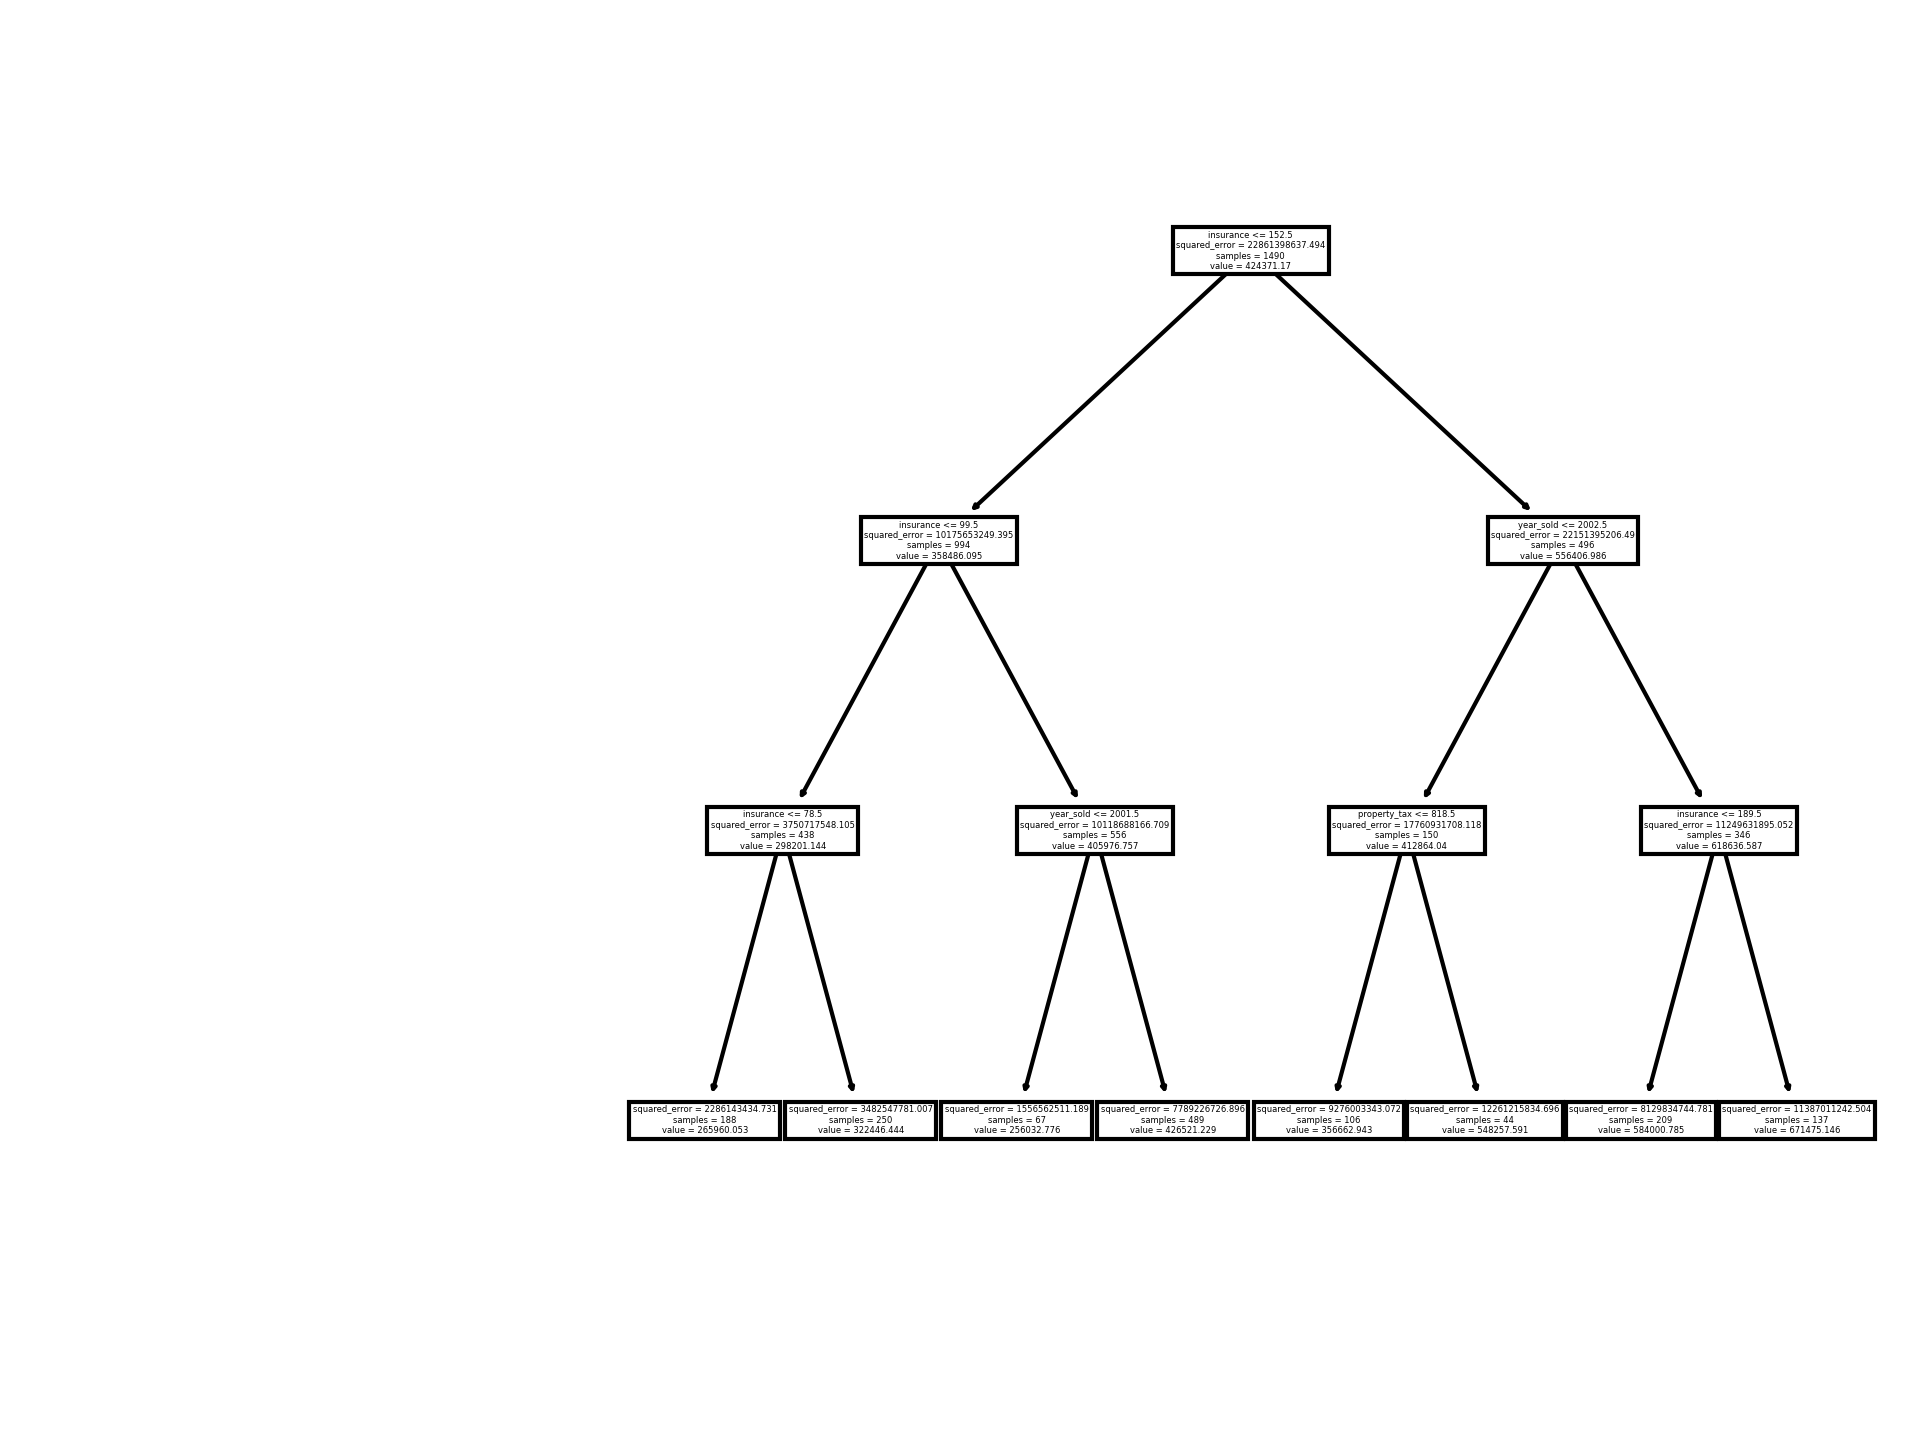
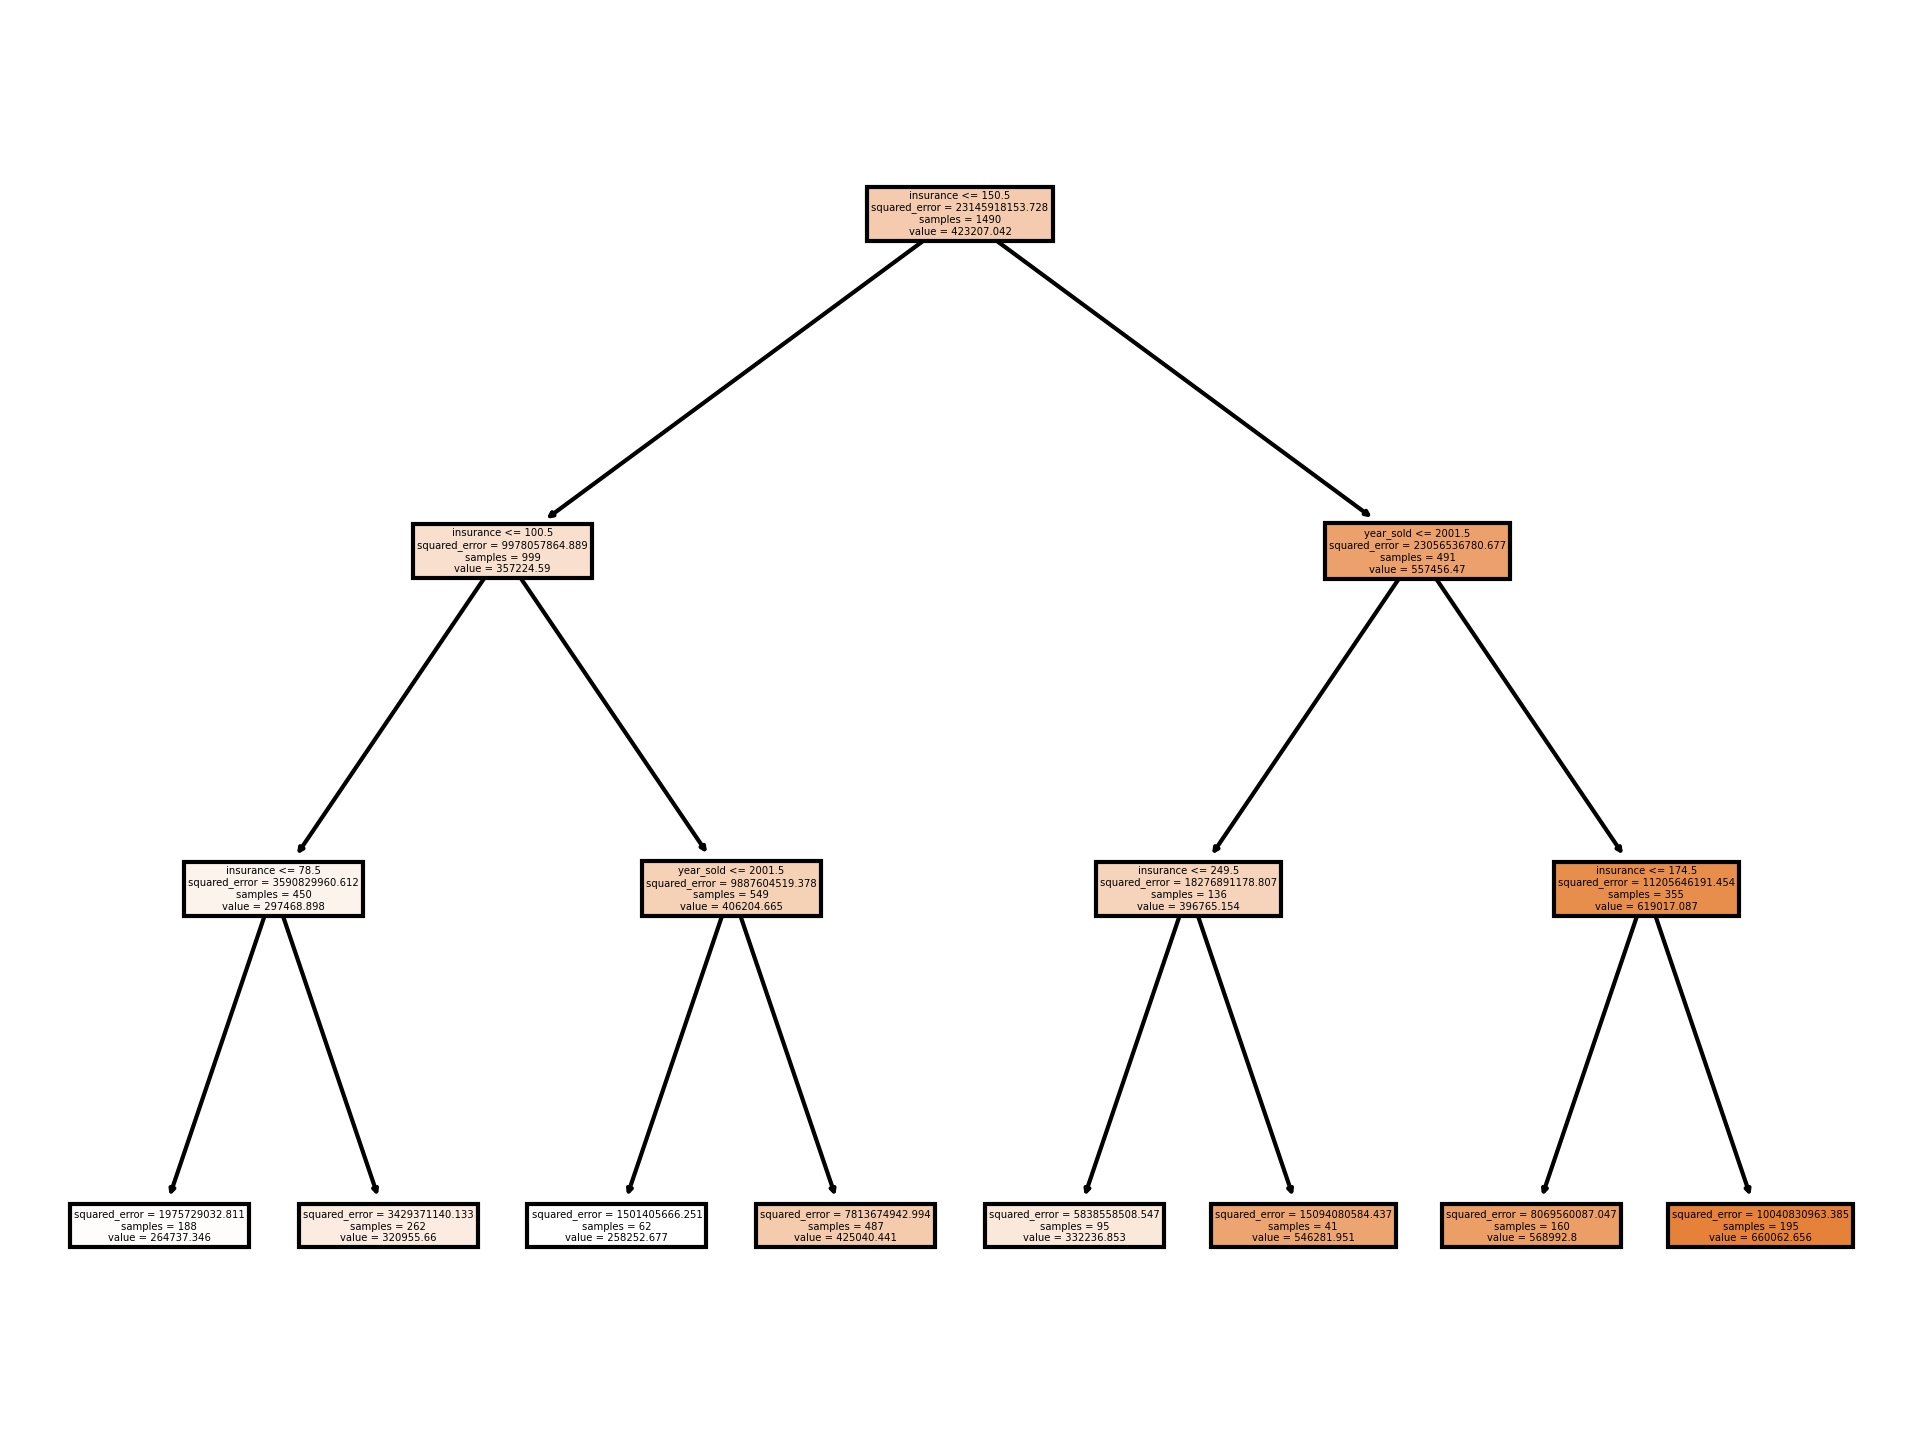
exception handling

diff --git a/src/visualization/visualize.py b/src/visualization/visualize.py
@@ -2,7 +2,9 @@
 import matplotlib.pyplot as plt
 import seaborn as sns
 from sklearn import tree
+from ..logging.logging import logging_decorator
 
+@logging_decorator
 def plot_correlation_heatmap(data):
     """
     Plot a correlation heatmap for the given data.
@@ -13,8 +15,13 @@ def plot_correlation_heatmap(data):
     plt.figure(figsize=(10, 8))
     sns.heatmap(data.corr()*100, annot=True, fmt='.0f', cmap='RdBu_r')
     plt.title('Correlation Heatmap', fontsize=16)
+    # Save the plot to a file
+    plt.savefig('heatmap.png', dpi=300)
+    # Show the plot
     plt.show()
 
+
+@logging_decorator
 def plot_feature_importance(model, x):
     """
     Plot a bar chart showing the feature importances.
@@ -23,18 +30,30 @@ def plot_feature_importance(model, x):
         feature_names (list): List of feature names.
         feature_importances (list): List of feature importance values.
     """
-    fig, ax = plt.subplots()
+    fig, ax = plt.subplots() # a single subplot
     ax = sns.barplot(x=model.feature_importances_, y=x.columns)
     plt.title("Feature importance chart")
     plt.xlabel("Importance")
     plt.ylabel("Feature")
     plt.tight_layout()
-    fig.savefig("feature_importance.png")
-
-
-def plot_decision_tree(model):
-    # Plot the tree with feature names
-    tree.plot_tree(model, feature_names=model.feature_names_in_)
-
     # Save the plot to a file
-    plt.savefig('tree.png', dpi=300)
+    fig.savefig("feature_importance.png")
+    # Show the plot
+    plt.show()
+
+@logging_decorator
+def plot_decision_tree(model):
+    """
+    Plot a decision tree for the model.
+    
+    Args:
+        model: trained decision tree model.
+    """
+    fig, ax = plt.subplots()      
+    # Plot the tree with feature names
+    ax =tree.plot_tree(model, feature_names=model.feature_names_in_, filled = True)
+    plt.tight_layout()
+    # Save the plot to a file
+    fig.savefig('tree.png', dpi=300)    
+    # Show the plot
+    plt.show()

diff --git a/src/logging/logging.py b/src/logging/logging.py
@@ -10,14 +10,25 @@ def logging_decorator(func):
     def wrapper(*args, **kwargs):
         try:
             # log function called infomation
-            logger.info(f"Function '{func.__name__}' started with arguments {args} and {kwargs}")
+            logger.info(f"Function '{func.__name__}' started.")
             return func(*args, **kwargs)
         # log errors
+        except FileNotFoundError:
+            logger.error(f"Cannot find the file in function '{func.__name__}'")
+            return None
+        except PermissionError:
+            logger.error(f"No permission for the file in function '{func.__name__}'")
+            return None
+        except ValueError:
+            logger.error(f"Value Error occured in function '{func.__name__}'")
+            return None
+        except TypeError:
+            logger.error(f"Type Error occured in function '{func.__name__}'")
         except Exception as e:
             logger.error(f"Unexpected error occurred in function '{func.__name__}' with arguments {args} and {kwargs}. Error: {e}")
             return None
         finally:
             # log the end of functions execution
-            logger.info(f"Function '{func.__name__}' ended")
+            logger.info(f"Function '{func.__name__}' ended.")
     
     return wrapper

diff --git a/src/data/load_dataset.py b/src/data/load_dataset.py
@@ -5,16 +5,13 @@ from ..logging.logging import logging_decorator
 @logging_decorator
 def load_and_preprocess_data(data_path):
     
-    try:
-        # Import the data from 'real_estate.csv'
-        df = pd.read_csv(data_path)
-    except FileNotFoundError:
-        print(f"Cannot find the .csv file, please put the dataset to the position: {data_path}")
-    else:
-        # Impute missing values in basement
-        df.fillna({'basement':0}, inplace=True)
-        df['basement']=df['basement'].astype(int)        
+    # Import the data from 'real_estate.csv'
+    df = pd.read_csv(data_path)
 
-        # Remove observations with lot_size greater than 500,000 sqft.
-        df=df[df.lot_size<500000]
-        return df
+    # Impute missing values in basement
+    df.fillna({'basement':0}, inplace=True)
+    df['basement']=df['basement'].astype(int)        
+
+    # Remove observations with lot_size greater than 500,000 sqft.
+    df=df[df.lot_size<500000]
+    return df
